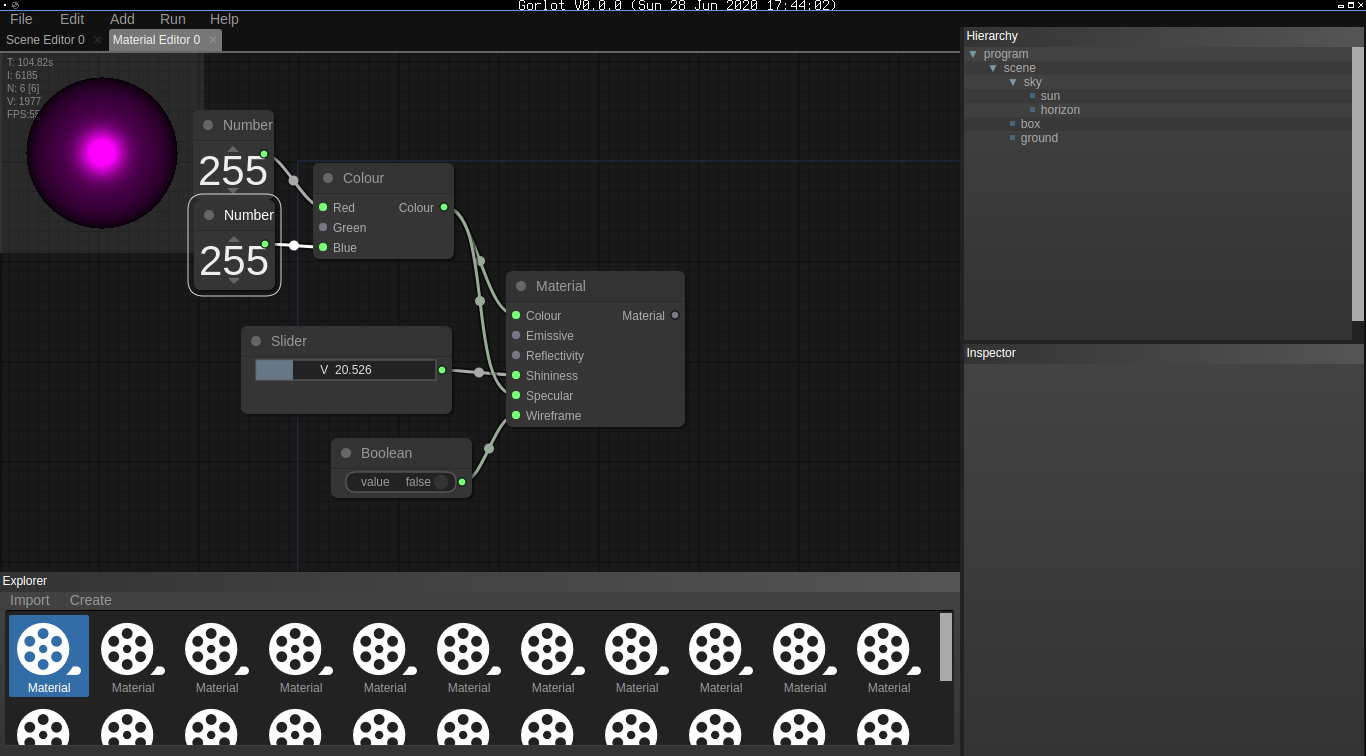
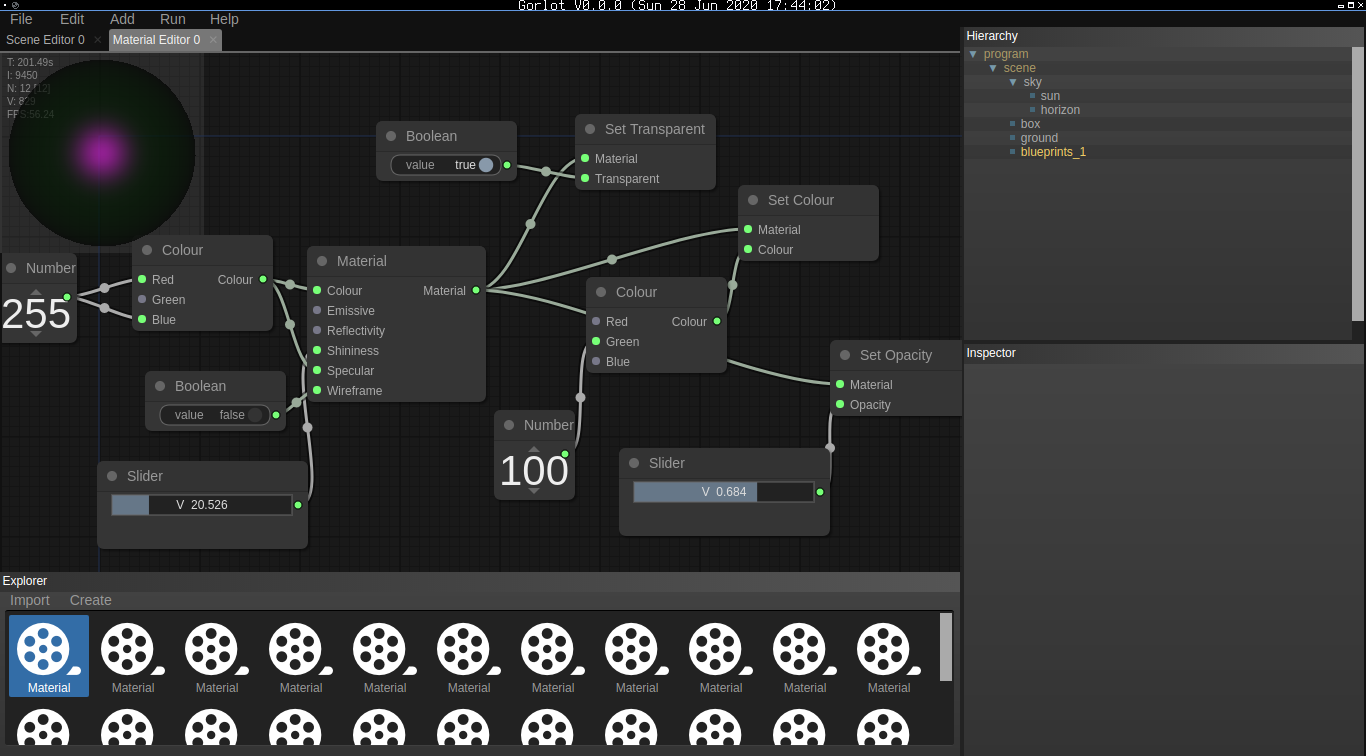
Some progress with the Asset Explorer

diff --git a/src/core/Nodes/Materials/Material.js b/src/core/Nodes/Materials/Material.js
@@ -1,3 +1,5 @@
+// TODO: Texture map, Bump Map, Bump Map Scale, Normal Map, Normal Map Scale, Displacement Map, Displacement map scale, Displacement map bias, Specular map, Alpha Map, Environment Map, 
+
 function MeshPhongMaterialNode() {
 	this.addInput("Colour", "Color")
 	this.addInput("Emissive", "number")
@@ -57,7 +59,53 @@ SetMaterialColorNode.prototype.onExecute = function() {
 	}
 }
 
+function SetMaterialTransparentNode() {
+	this.addInput("Material", "Material")
+	this.addInput("Transparent", "Boolean")
+}
+SetMaterialTransparentNode.title = "Set Transparent"
+SetMaterialTransparentNode.prototype.onExecute = function() {
+	var m = this.getInputData(0)
+	var t = this.getInputData(1)
+
+	if (m !== undefined && t !== undefined) {
+		m.transparent = t
+	}
+}
+
+function SetMaterialOpacityNode() {
+	this.addInput("Material", "Material")
+	this.addInput("Opacity", "number")
+}
+SetMaterialOpacityNode.title = "Set Opacity"
+SetMaterialOpacityNode.prototype.onExecute = function() {
+	var m = this.getInputData(0)
+	var o = this.getInputData(1)
+
+	if (m !== undefined && o !== undefined) {
+		m.opacity = o
+	}
+}
+
+function SetMaterialTextureNode() {
+	// TODO: This
+	this.addInput("Material", "Material")
+	this.addInput("Texture", "Texture")
+}
+SetMaterialTextureNode.title = "Set Texture"
+SetMaterialTextureNode.prototype.onExecute = function() {
+	var m = this.getInputData(0)
+	var t = this.getInputData(1)
+
+	if (m !== undefined && t !== undefined) {
+		m.map = t
+	}
+}
+
 function registerMaterialNodeNodes(argument) {
 	LiteGraph.registerNodeType("Material/MeshPhongMaterial", MeshPhongMaterialNode)
 	LiteGraph.registerNodeType("Material/SetMaterialColor", SetMaterialColorNode)
+	LiteGraph.registerNodeType("Material/SetMaterialTransparent", SetMaterialTransparentNode)
+	LiteGraph.registerNodeType("Material/SetMaterialOpacity", SetMaterialOpacityNode)
+	LiteGraph.registerNodeType("Material/SetMaterialTexture", SetMaterialTextureNode)
 }

diff --git a/src/editor/ui/AssetExplorer.js b/src/editor/ui/AssetExplorer.js
@@ -8,7 +8,7 @@ function EditorUIAssetExplorer() {
 
     EditorUI.asset_explorer_menu = new LiteGUI.Menubar()
 
-    EditorUI.asset_explorer_menu.add("Import/Objects/OBJ", {callback: () => {
+    EditorUI.asset_explorer_menu.add("Import/Objects/Wavefront", {callback: () => {
         App.chooseFile((fname) => {
             try {
                 var loader = new THREE.OBJLoader()
@@ -134,15 +134,15 @@ function EditorUIAssetExplorer() {
 
     // ----- CREATE -----
 
-    EditorUI.asset_explorer_menu.add("Create/Material/Standard Material", {callback: () => {
+    EditorUI.asset_explorer_menu.add("Create/Material/Phong Material", {callback: () => {
         // TODO: Create Standard Material
     }})
 
-    EditorUI.asset_explorer_menu.add("Create/Material/Sprite Material", {callback: () => {
+    EditorUI.asset_explorer_menu.add("Create/Material/Standard Material", {callback: () => {
         // TODO: Create Sprite Material
     }})
 
-    EditorUI.asset_explorer_menu.add("Create/Material/Phong Material", {callback: () => {
+    EditorUI.asset_explorer_menu.add("Create/Material/Sprite Material", {callback: () => {
         // TODO: Create Phong Material
     }})
 
@@ -227,7 +227,7 @@ EditorUI.addObject = function(name, type, attachedTo) {
     var obj = {
         name: name,
         type: type,
-        icon: "data/icons/assets/video.png",
+        icon: "data/icons/misc/material.png",
         attachedTo: ins,
         style: "width: 80px; display: inline-block; text-align: center;"
     }

diff --git a/src/editor/tabs/MaterialEditor.js b/src/editor/tabs/MaterialEditor.js
@@ -56,13 +56,13 @@ class MaterialEditor {
 		this.renderer.shadowMap.type = THREE.PCFShadowMap
 
 		// Material preview camera
-		this.camera = new PerspectiveCamera(60, 200/200, 0.1, 1000000)
+		this.camera = new PerspectiveCamera(50, 200/200, 0.1, 1000000)
 
 		// Material Preview Scene
 		this.scene = new Scene()
 
 		// Light
-		this.scene.add(new PointLight(0x555555))
+		this.scene.add(new PointLight(0x444444))
 
 		// Material attached to the editor
 		this.material = material
@@ -185,7 +185,7 @@ class MaterialEditor {
 		if (Mouse.insideCanvas()) {
 			if (Mouse.buttonPressed(Mouse.LEFT)) {
 				var delta = new THREE.Quaternion()
-				delta.setFromEuler(new THREE.Euler(Mouse.pos_diff.y * 0.01, Mouse.pos_diff.x * 0.01, 0, 'XYZ'))
+				delta.setFromEuler(new THREE.Euler(Mouse.pos_diff.y * 0.005, Mouse.pos_diff.x * 0.005, 0, 'XYZ'))
 				this.sphere.quaternion.multiplyQuaternions(delta, this.sphere.quaternion)
 			}
 		}

diff --git a/src/Editor.js b/src/Editor.js
@@ -801,12 +801,12 @@ Editor.setRenderCanvas = function(canvas) {
 
 // Initialize the renderer
 Editor.initializeRenderer = function(canvas) {
-	Editor.renderer = new THREE.WebGLRenderer({canvas: canvas})
+	Editor.renderer = new THREE.WebGLRenderer({canvas: canvas, antialias: true})
 	Editor.renderer.autoClear = false
 
 	// Enable shadow maps
 	Editor.renderer.shadowMap.enabled = true
-	Editor.renderer.shadowMap.type = THREE.PCFShadowMao
+	Editor.renderer.shadowMap.type = THREE.PCFSoftShadowMap
 	Editor.renderer.setSize(canvas.width, canvas.height)
 }
 

diff --git a/runtime/Main.js b/runtime/Main.js
@@ -23,7 +23,7 @@ Main.initialize = function(canvas) {
 	Main.renderer = new THREE.WebGLRenderer({canvas: Main.canvas})
 	Main.renderer.autoClear = false
 	Main.renderer.shadowMap.enabled = true
-	Main.renderer.shadowMap.type = THREE.PCFShadowMap
+	Main.renderer.shadowMap.type = THREE.PCFSoftShadowMap
 	Main.renderer.setSize(Main.canvas.width, Main.canvas.height)
 
 	// Main Camera

diff --git a/src/core/Nodes/Materials/Texture.js b/src/core/Nodes/Materials/Texture.js
@@ -1,0 +1,1 @@
+// TODO: Texture loading

diff --git a/libs/builder.py b/libs/builder.py
@@ -111,6 +111,7 @@ source.append("core/Nodes/Blueprints/Scene.js")
 # Materials nodes
 source.append("core/Nodes/Materials/Material.js")
 source.append("core/Nodes/Materials/Color.js")
+source.append("core/Nodes/Materials/Texture.js")
 
 source.append("core/Nodes/Register.js")
 
